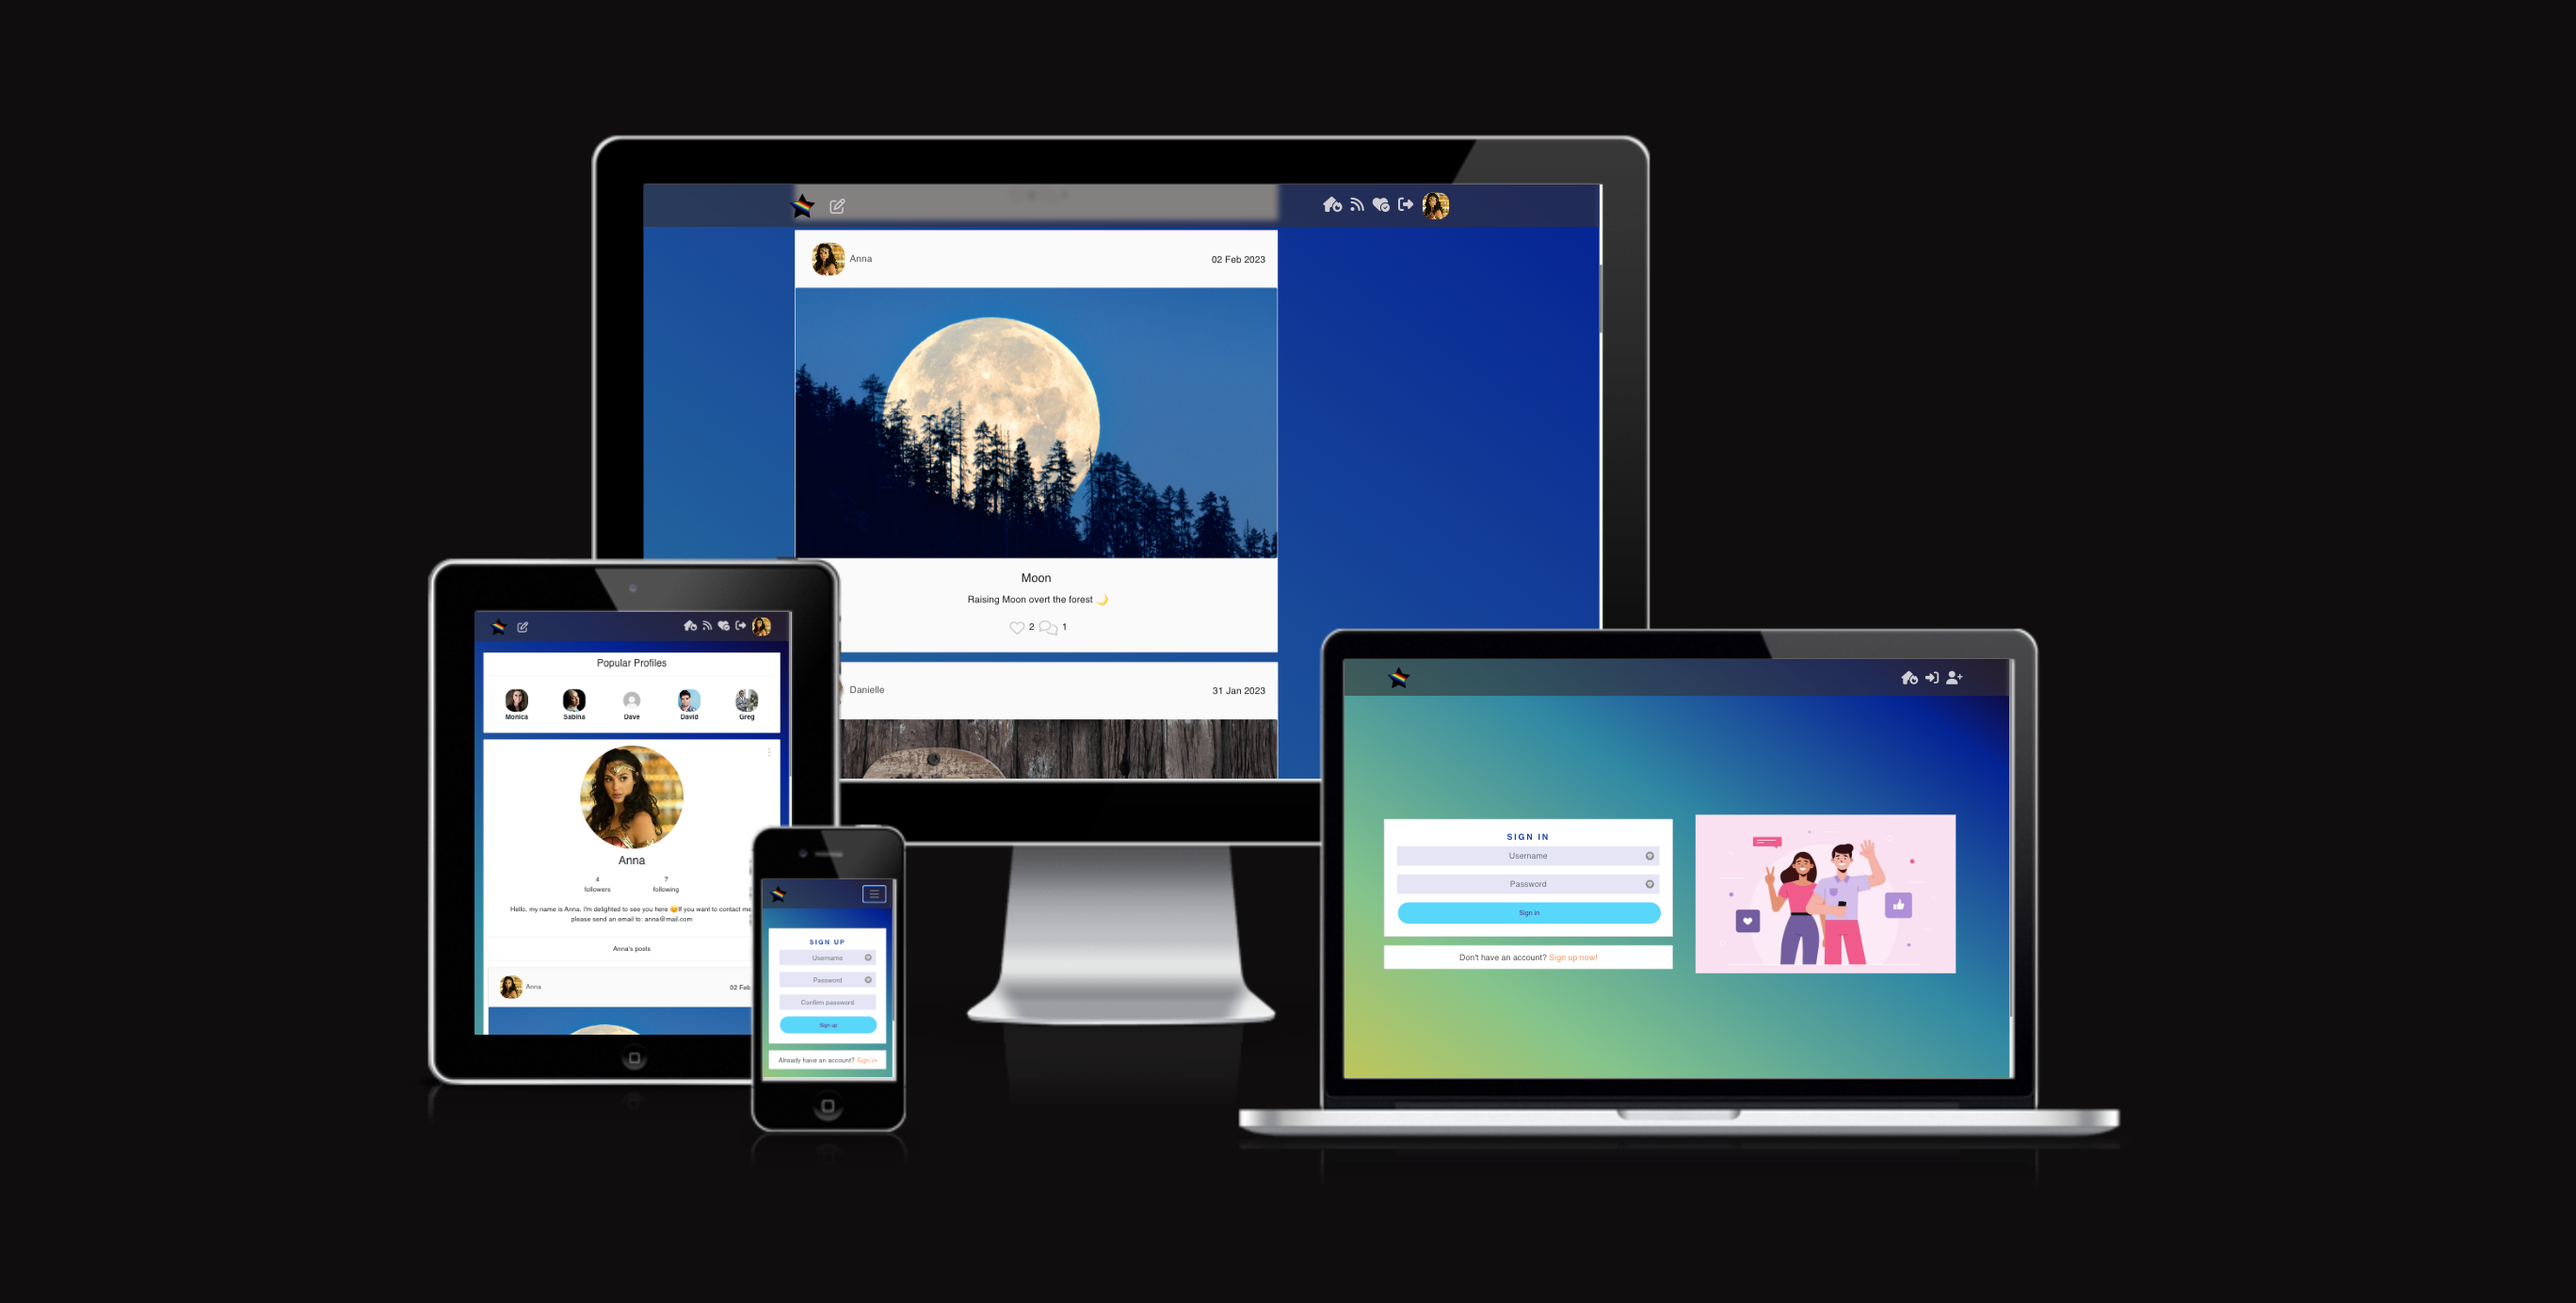
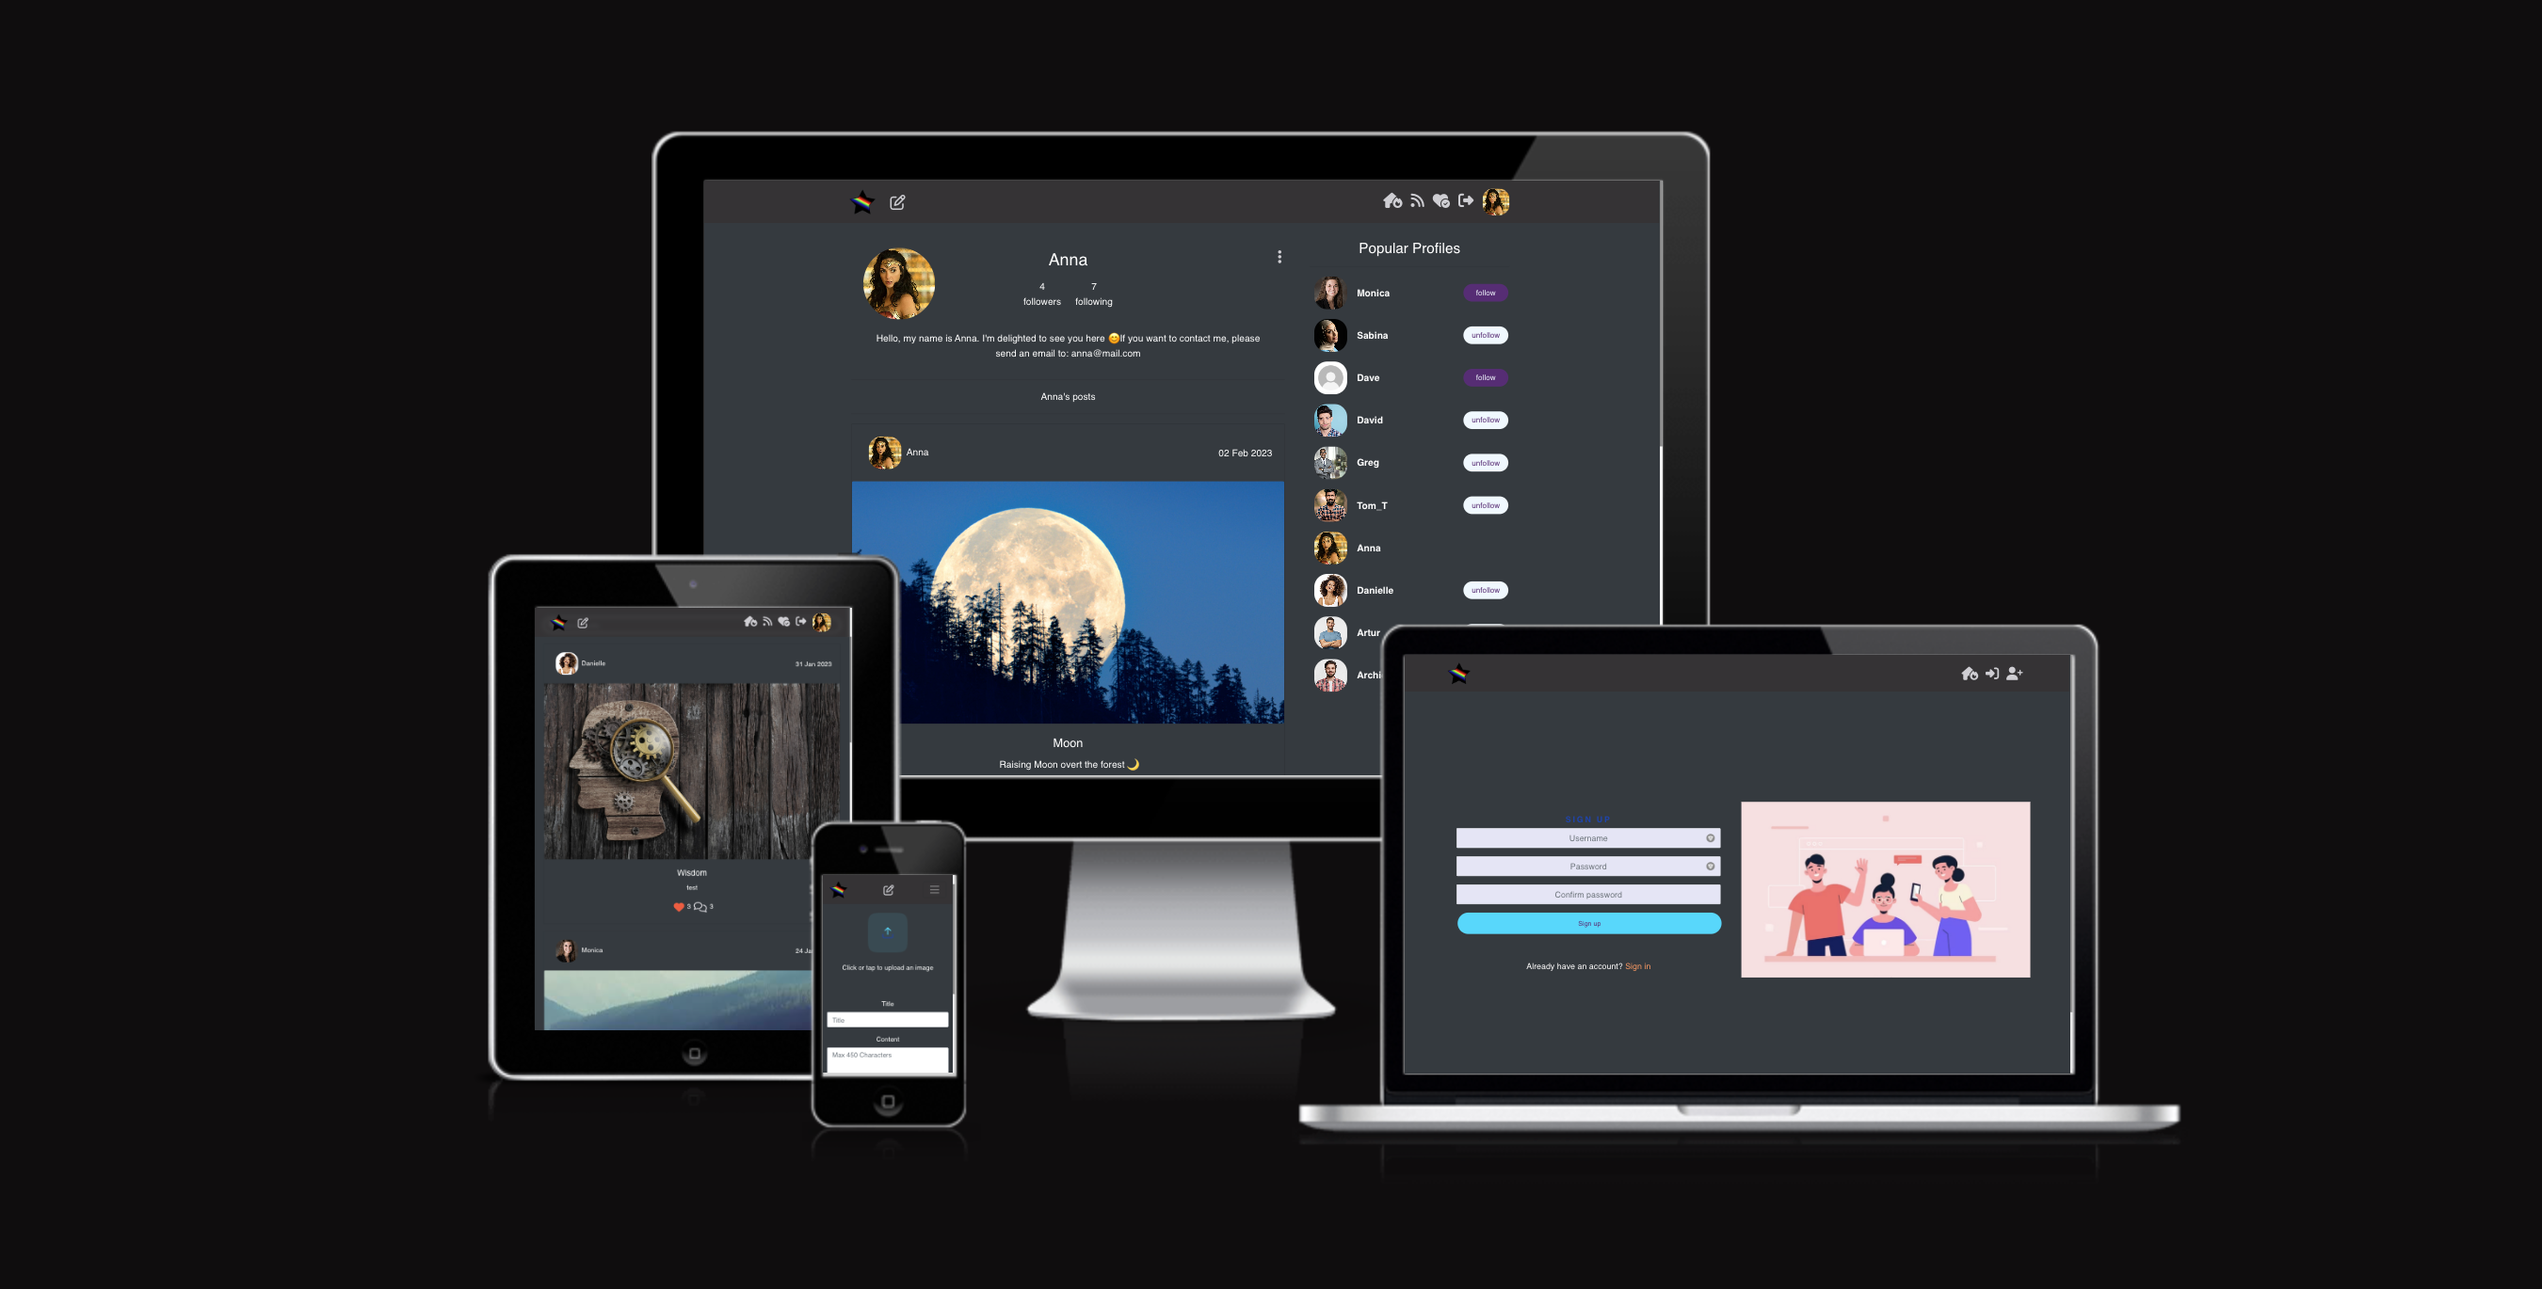
Added screenshots to readme and changed css style across the website

diff --git a/src/styles/Button.module.css b/src/styles/Button.module.css
@@ -16,15 +16,15 @@
   }
   
   .Button:hover:active {
-    background-color: #5c2878 !important;
+    background-color: #242a3d !important;
   }
   
   .Button:active {
-    background-color: #5c2878 !important;
+    background-color: #242a3d !important;
   }
   
   .Button:focus {
-    background-color: #5c2878;
+    background-color: #242a3d;
   }
   
   .Wide {
@@ -35,35 +35,29 @@
   .Blue,
   .BlueOutline:hover,
   .Bright:hover {
-    background-color: #5c2878;
+    background-color: #242a3d;
     color: #ffffff;
   }
   
   .BlueOutline,
   .Blue:hover {
-    /* border: 1px solid #2142b2; */
-    background-color: #ffffff;
-    color: #5c2878;
+    border: 1px solid #2142b2;
   }
   
   .Black,
   .BlackOutline:hover {
-    /* background-color: #242a3d;
-    color: white; */
-    background-color: #5c2878;
-    color: aliceblue;
+    background-color: #242a3d;
+    color: white;
   }
   
   .Black:hover,
   .BlackOutline {
-    /* background-color: #dadadf;
+    background-color: #dadadf;
     color: #242a3d;
-    border-color: #242a3d; */
-    background-color: aliceblue;
-    color: #5c2878;
+    border-color: #242a3d;
   }
   
   .Bright {
-    background-color: #2ed9ff;
-    color: #5c2878;
+    background-color: #777d7e;
+    color: #fafafa;
   }

diff --git a/src/styles/CommentCreateEditForm.module.css b/src/styles/CommentCreateEditForm.module.css
@@ -1,12 +1,12 @@
 .Form {
   border: none;
-  border-bottom: 2px #a54dcd solid;
+  border-bottom: 2px #827f83 solid;
   background-color: #343a40;
 }
 
 .Button {
   border: none;
-  background-color: #5c2878;
+  background-color: #242a3d;
   color: aliceblue;
   border-radius: 100px;
   padding: 4px 10px;
@@ -18,5 +18,5 @@
 .Button:hover {
   cursor: pointer;
   background-color: aliceblue;
-  color: #5c2878;
+  color: #242a3d;
 }

diff --git a/src/components/NavBar.js b/src/components/NavBar.js
@@ -32,9 +32,9 @@ const NavBar = () => {
       placement="bottom"
       overlay={<Tooltip>Create post</Tooltip>}
       >
-        <NavLink
+        <NavLink exact
           className={styles.NavLink}
-          activeClassName={styles.Active}
+          activeClassName="main-nav-active"
           to="/posts/create"
         >
           <i className="fa-regular fa-pen-to-square"></i>

diff --git a/src/styles/NavBar.module.css b/src/styles/NavBar.module.css
@@ -2,3 +2,7 @@
   background-color: rgba(52, 47, 47, 0.6);
   backdrop-filter: blur(5px);
 }
+
+.main-nav-active {
+  color: red;
+}

diff --git a/src/App.module.css b/src/App.module.css
@@ -30,7 +30,7 @@
 }
 
 a {
-  color: #fffcfc;
+  color: #555555;
   transition: color ease-in-out 0.3s;
 }
 

diff --git a/README.md b/README.md
@@ -100,7 +100,7 @@ Wireframes
 Colours: Intuitive colours used consistently to represent already commented, liked or followed profiles or posts. 
 * Red - Liked post
 * Blue - Commented Post 
-* Purple/Whhite - Follow/Unfollow user
+* Navy blue/white - Follow/Unfollow user
 
  ## User Stories 
 
@@ -233,41 +233,41 @@ The wireframe model is created as part of the project planning. Its task is to g
 
 ## Pages 
 
-<hr>
 
 ### **Home Page**
 
-* Register is a section created for users to easily and efficiently create an account on our page. Register form is responsive to all screen sizes.
+The home page displays postings from existing users and popular profiles, allowing new users to explore content and read comments. If the user does not have an account, the call to action buttons are to sign up. If the user is already logged in, the navbar menu allows them to access other sites such as Feed, Liked, My Profile, and Add post.
 
-![register]()
+
+![Home](src/assets/readme/home.png)
 
 ### **Add Post**
 
 * Add post allows user to post articles. 
 
-![Add Post]()
+![Add Post](src/assets/readme/add-post.png)
 
 ### **User Profile Page**
 
-![profile]()
+![User Profile ](src/assets/readme/user-profile.png)
 
 ### **Login Page**
 
 * Login page form allows user to login into user account
 
-![Login]()
+![Login](src/assets/readme/login.png)
 
 ### **Feed**
 
 * Feed 
 
-![Change Password]()
+![Feed](src/assets/readme/feed.png)
 
 ### **Liked**
 
 * Liked posts 
 
-![Change Password]()
+![Change Password](src/assets/readme/)
 
 ### **Change User Details**
 
